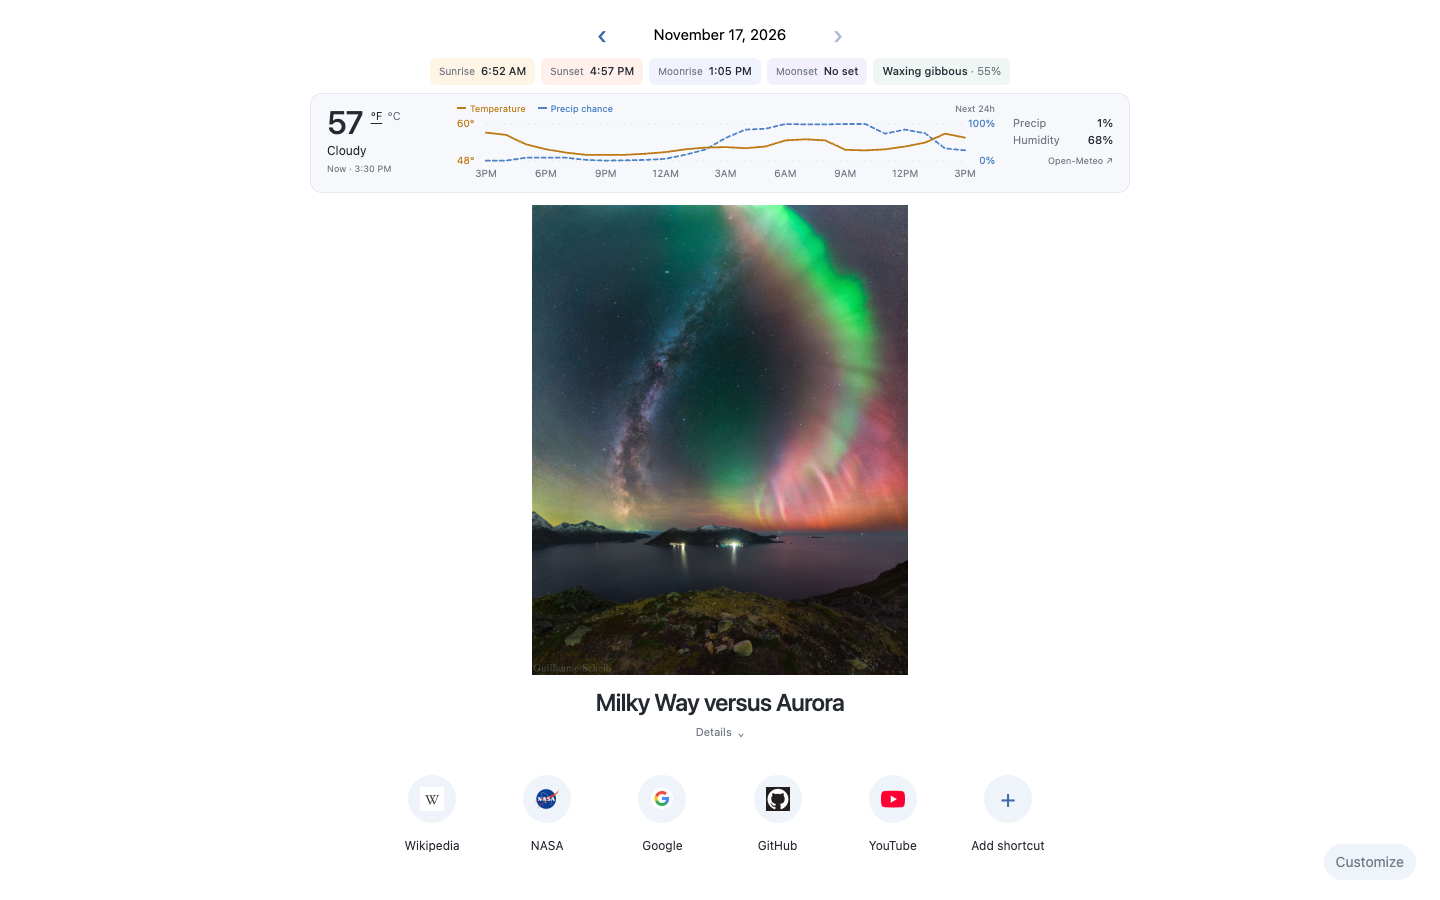
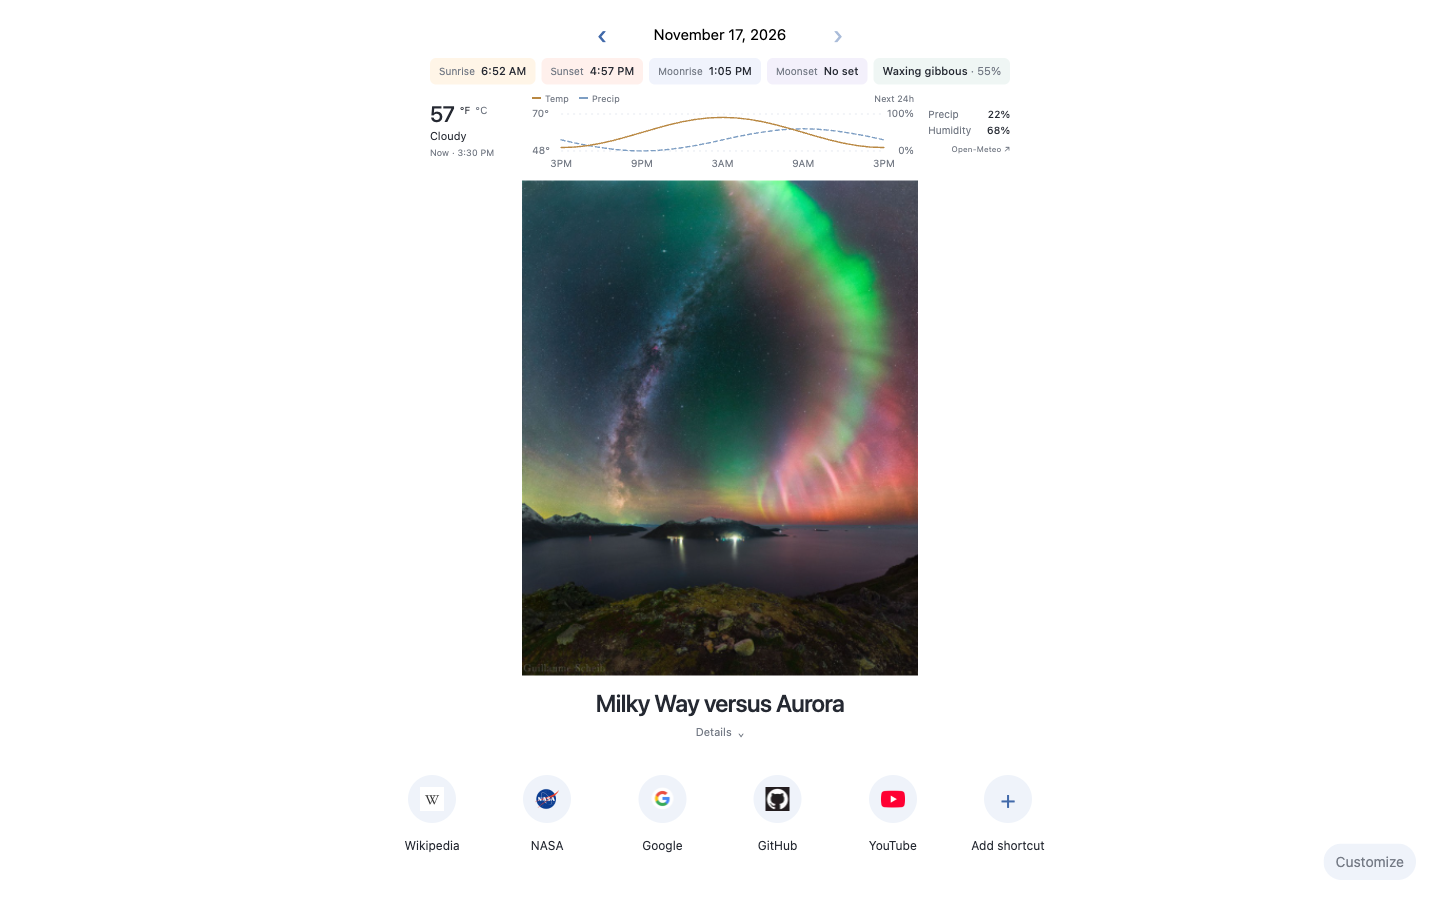
Match weather styling and width to the sun and moon row

diff --git a/extension/newtab.css b/extension/newtab.css
@@ -89,37 +89,35 @@ legend { padding: 0; margin-bottom: 10px; font-weight: 600; }
 @media (max-width: 1000px) { .shortcuts-grid { max-width: 600px; margin: auto; } .shortcut { flex-basis: calc((100% - 32px) / 5); } }
 @media (max-width: 600px) { main { padding: 0 20px 42px; margin-top: 12px; } h1 { font-size: 21px; } .shortcut { flex-basis: calc((100% - 24px) / 4); } dialog { padding: 20px; } .shortcut-row { grid-template-columns: 1fr auto; } .shortcut-row input:nth-child(2) { grid-column: 1; grid-row: 2; } .row-controls { grid-column: 2; grid-row: 1 / 3; } }
 
-.weather-strip { --weather-temp: #bd7a15; --weather-rain: #4e84c5; width: min(100%, 820px); margin: 0 auto 12px; min-height: 100px; text-align: left; border: 1px solid var(--border); border-radius: 12px; background: var(--hover); }
-.weather-status { display: flex; align-items: center; justify-content: center; min-height: 98px; margin: 0; padding: 8px 16px; font-size: 12px; color: var(--muted); }
-.weather-content { display: grid; grid-template-columns: 112px minmax(0, 1fr) 100px; align-items: center; gap: 18px; padding: 9px 16px; }
+.weather-strip { --weather-temp: #b98842; --weather-rain: #7d9ec3; width: min(100%, 580px); max-width: 100%; margin: 0 auto 10px; min-height: 78px; text-align: left; }
+.weather-status { display: flex; align-items: center; justify-content: center; min-height: 78px; margin: 0; font-size: 11px; color: var(--muted); }
+.weather-content { display: grid; grid-template-columns: 88px minmax(0, 1fr) 82px; align-items: center; gap: 14px; }
 .weather-now { min-width: 0; }
-.weather-temperature { display: flex; align-items: center; gap: 7px; line-height: 1.1; }
-#weather-temperature { font-size: 32px; font-weight: 500; letter-spacing: -1px; }
-.weather-units { display: flex; align-self: flex-start; gap: 3px; margin-top: 3px; }
-.weather-units button { padding: 2px 1px; border: 0; background: transparent; color: var(--muted); font-size: 11px; }
-.weather-units button[aria-pressed="true"] { color: var(--fg); text-decoration: underline; text-underline-offset: 3px; }
-.weather-condition { display: block; margin-top: 3px; font-size: 12px; line-height: 1.3; }
+.weather-temperature { display: flex; align-items: center; gap: 4px; line-height: 1.1; }
+#weather-temperature { font-size: 22px; font-weight: 500; letter-spacing: -.4px; }
+.weather-units { display: flex; align-self: flex-start; gap: 3px; margin-top: 1px; }
+.weather-units button { padding: 2px 1px; border: 0; background: transparent; color: var(--muted); font-size: 10px; }
+.weather-units button[aria-pressed="true"] { color: var(--fg); }
+.weather-condition { display: block; margin-top: 3px; font-size: 11px; line-height: 1.3; }
 .weather-updated { display: block; margin-top: 3px; font-size: 9px; color: var(--muted); }
 .weather-chart-heading { display: flex; justify-content: space-between; gap: 8px; color: var(--muted); font-size: 9px; line-height: 1.4; }
-.weather-legend { display: flex; gap: 12px; }
+.weather-legend { display: flex; gap: 10px; }
 .weather-legend span::before { content: ''; display: inline-block; width: 9px; height: 2px; margin: 0 4px 3px 0; background: currentColor; }
-.temperature-key { color: var(--weather-temp); }
-.rain-key { color: var(--weather-rain); }
+.weather-legend .temperature-key::before { background: var(--weather-temp); }
+.weather-legend .rain-key::before { background: var(--weather-rain); }
 .weather-chart svg { display: block; width: 100%; height: 64px; overflow: visible; }
 .weather-chart text { fill: var(--muted); font: 10px -apple-system, BlinkMacSystemFont, "Segoe UI", sans-serif; }
-.weather-chart .temperature-axis { fill: var(--weather-temp); }
-.weather-chart .rain-axis { fill: var(--weather-rain); }
 .weather-chart .chart-grid { stroke: var(--border); stroke-dasharray: 2 4; }
 .weather-chart .temperature-line { stroke: var(--weather-temp); }
 .weather-chart .rain-line { stroke: var(--weather-rain); stroke-dasharray: 4 3; }
-.weather-chart .forecast-line { fill: none; stroke-width: 1.8; stroke-linejoin: round; stroke-linecap: round; vector-effect: non-scaling-stroke; }
-.weather-summary dl { margin: 0 0 5px; font-size: 11px; }
+.weather-chart .forecast-line { fill: none; stroke-width: 1.4; stroke-linejoin: round; stroke-linecap: round; vector-effect: non-scaling-stroke; }
+.weather-summary dl { margin: 0 0 4px; font-size: 10px; }
 .weather-summary dl div { display: flex; justify-content: space-between; gap: 8px; }
 .weather-summary dt { color: var(--muted); }
 .weather-summary dd { margin: 0; font-weight: 500; }
-.weather-source { display: block; color: var(--muted); font-size: 9px; text-align: right; }
+.weather-source { display: block; color: var(--muted); font-size: 8px; text-align: right; }
 .weather-source:hover { text-decoration: underline; }
-:root[data-theme="dark"] .weather-strip { --weather-temp: #efb653; --weather-rain: #87b6ed; }
-@media (prefers-color-scheme: dark) { :root[data-theme="system"] .weather-strip { --weather-temp: #efb653; --weather-rain: #87b6ed; } }
-@media (max-width: 720px) { .weather-content { grid-template-columns: 82px minmax(0, 1fr) 82px; gap: 10px; padding: 9px 10px; } #weather-temperature { font-size: 28px; } .weather-chart-heading { font-size: 8px; } .weather-legend { gap: 6px; } }
-@media (max-width: 480px) { .weather-content { grid-template-columns: 68px minmax(0, 1fr); gap: 8px; } .weather-summary { grid-column: 1 / -1; display: flex; justify-content: space-between; align-items: center; } .weather-summary dl { display: flex; gap: 14px; margin: 0; font-size: 10px; } .weather-source { font-size: 8px; } .weather-chart-heading > span:last-child { display: none; } .weather-chart svg { height: 68px; } #weather-temperature { font-size: 26px; } .weather-temperature { gap: 3px; } .weather-units { gap: 1px; } .weather-condition { font-size: 11px; } }
+:root[data-theme="dark"] .weather-strip { --weather-temp: #c6a26a; --weather-rain: #95afcd; }
+@media (prefers-color-scheme: dark) { :root[data-theme="system"] .weather-strip { --weather-temp: #c6a26a; --weather-rain: #95afcd; } }
+@media (max-width: 600px) { .weather-content { grid-template-columns: 78px minmax(0, 1fr) 78px; gap: 10px; } .weather-legend { gap: 6px; } }
+@media (max-width: 480px) { .weather-content { grid-template-columns: 68px minmax(0, 1fr); gap: 8px; } .weather-summary { grid-column: 1 / -1; display: flex; justify-content: space-between; align-items: center; } .weather-summary dl { display: flex; gap: 14px; margin: 0; } .weather-chart-heading > span:last-child { display: none; } .weather-units { gap: 1px; } }

diff --git a/extension/newtab.html b/extension/newtab.html
@@ -35,7 +35,7 @@
             <span id="weather-updated" class="weather-updated">Now · Local weather</span>
           </div>
           <div class="weather-forecast">
-            <div class="weather-chart-heading"><span class="weather-legend"><span class="temperature-key">Temperature</span><span class="rain-key">Precip chance</span></span><span>Next 24h</span></div>
+            <div class="weather-chart-heading"><span class="weather-legend"><span class="temperature-key">Temp</span><span class="rain-key">Precip</span></span><span>Next 24h</span></div>
             <div id="weather-chart" class="weather-chart"></div>
           </div>
           <div class="weather-summary"><dl><div><dt>Precip</dt><dd id="weather-rain">—</dd></div><div><dt>Humidity</dt><dd id="weather-humidity">—</dd></div></dl><a href="https://open-meteo.com/" class="weather-source" title="Weather data by Open-Meteo, CC BY 4.0">Open-Meteo ↗</a></div>

diff --git a/extension/weather.js b/extension/weather.js
@@ -153,6 +153,9 @@ async function init() {
     chrome.storage.local.set({ weatherUnit: value }).catch(() => {});
   });
   new ResizeObserver(() => { if (data && !$('weather-content').hidden) render(); }).observe($('weather-chart'));
+  new ResizeObserver(([entry]) => {
+    $('weather').style.width = `${entry.contentRect.width}px`;
+  }).observe(document.querySelector('.sky-strip'));
   document.addEventListener('visibilitychange', () => { if (!document.hidden) refresh(); });
   window.addEventListener('online', () => { retryAt = 0; refresh(); });
   setInterval(() => { if (!document.hidden) refresh(); }, 60000);
